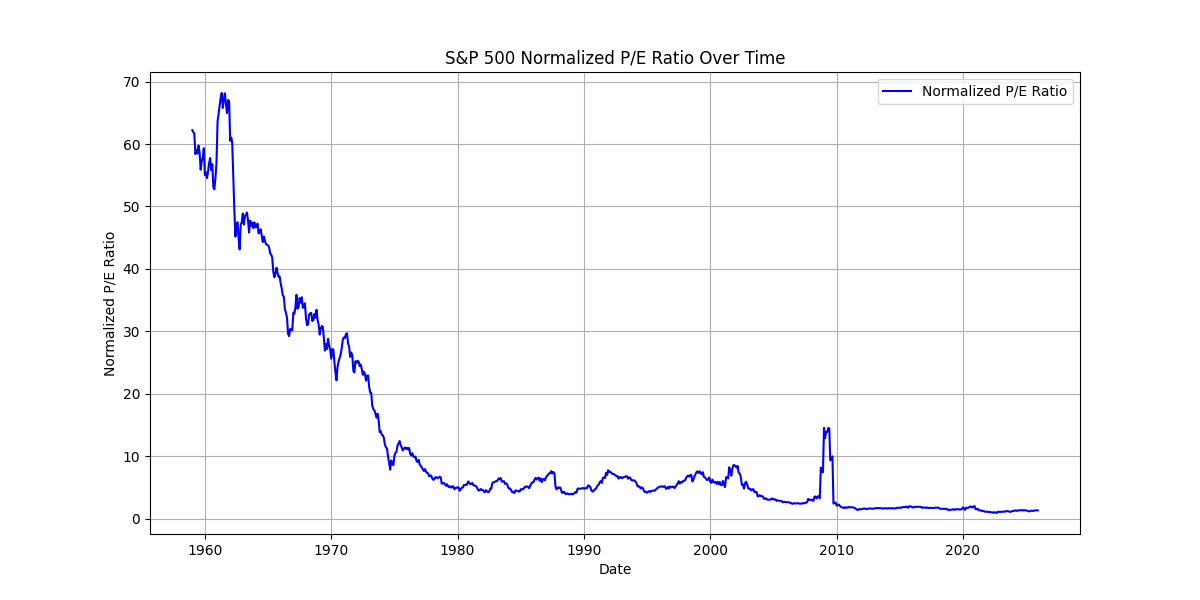
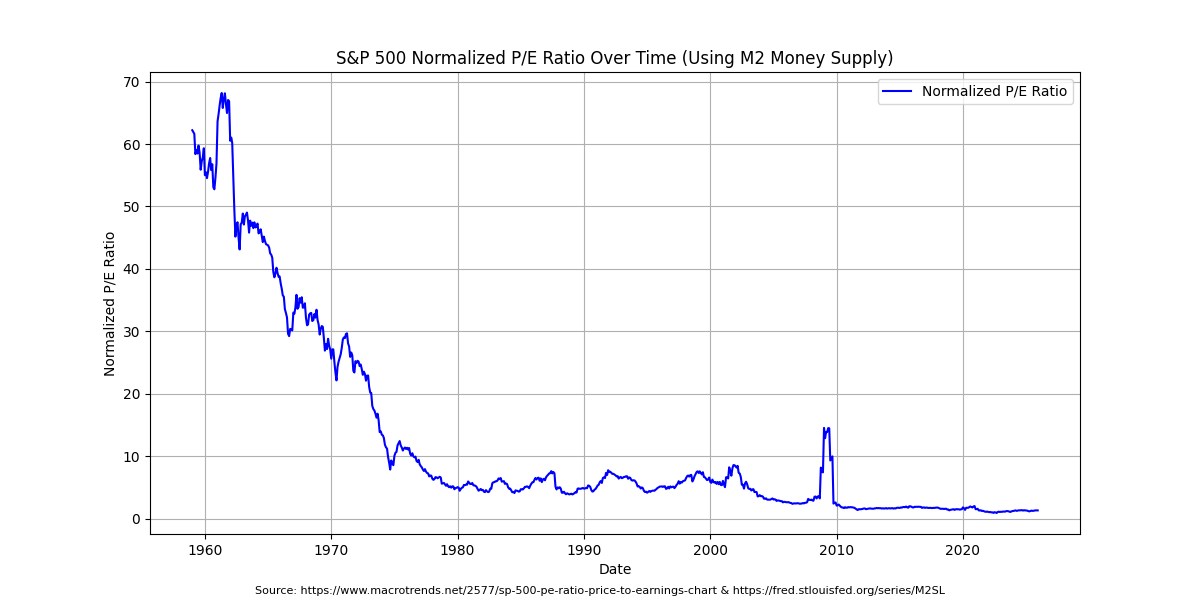
SP 500 PE ratio normalized around 10 year treasure yields

Changed region(s): [[0.2158, 0.96, 0.8017, 0.99], [0.2775, 0.06, 0.74, 0.12]]

diff --git a/src/equities/sp_500_normalized_pe.py b/src/equities/sp_500_normalized_pe.py
@@ -2,9 +2,15 @@ import matplotlib.pyplot as plt
 import pandas as pd
 
 
+# From https://fred.stlouisfed.org/
+m2_data = pd.read_csv('data/M2SL.csv')
+m2_data_source = "https://fred.stlouisfed.org/series/M2SL"
+dgs10_data = pd.read_csv('data/DGS10.csv')
+dgs10_data_source = "https://fred.stlouisfed.org/series/DGS10"
+
 # Macrotrends Data Download
 
-# S&amp;P 500 PE Ratio - 90 Year Historical Chart
+# S&P 500 PE Ratio - 90 Year Historical Chart
 
 # DISCLAIMER AND TERMS OF USE: HISTORICAL DATA IS PROVIDED "AS IS" AND SOLELY
 # FOR INFORMATIONAL PURPOSES - NOT FOR TRADING PURPOSES OR ADVICE.
@@ -13,8 +19,10 @@ import pandas as pd
 
 # ATTRIBUTION: Proper attribution requires clear indication of the data source as "www.macrotrends.net".
 # A "dofollow" backlink to the originating page is also required if the data is displayed on a web page.
+sp500_data = pd.read_csv('data/sp-500-pe-ratio-price-to-earnings-chart.csv')
+sp500_data_source = "https://www.macrotrends.net/2577/sp-500-pe-ratio-price-to-earnings-chart"
 
-def calculate_sp500_normalized_pe(sp500_data, m2_data):
+def calculate_sp500_normalized_pe_m2(sp500_data, m2_data):
     """
     Calculate the normalized P/E ratio for the S&P 500 index.
 
@@ -48,21 +56,64 @@ def calculate_sp500_normalized_pe(sp500_data, m2_data):
     # Plot the normalized P/E ratio over time
     plt.figure(figsize=(12, 6))
     plt.plot(merged_data['date'], merged_data['Normalized_PE'], label='Normalized P/E Ratio', color='blue')
-    plt.title('S&P 500 Normalized P/E Ratio Over Time')
+    plt.title('S&P 500 Normalized P/E Ratio Over Time (Using M2 Money Supply)')
     plt.xlabel('Date')
     plt.ylabel('Normalized P/E Ratio')
+    # Add text box with data sources
+    textstr = f'Source: {sp500_data_source} & {m2_data_source}'
+    plt.gcf().text(0.5, 0.01, textstr, ha='center', fontsize=8)
     plt.legend()
     plt.grid()
     plt.savefig('reports/figures/sp500_normalized_pe.png')
-    plt.show()
 
-    return merged_data[['date', 'value', 'M2SL', 'Normalized_PE']]
+def calculate_sp500_normalized_pe_dgs10(sp500_data, dgs10_data):
+    """
+    Calculate the normalized P/E ratio for the S&P 500 index using the 10-year Treasury yield.
+
+    Parameters:
+    sp500_data (pd.DataFrame): A DataFrame containing the S&P 500 index data with columns 'date' and 'value'.
+    dgs10_data (pd.DataFrame): A DataFrame containing the 10-year Treasury yield data with columns 'DATE' and 'DGS10'.
+
+    Returns:
+    pd.DataFrame: A DataFrame with columns 'date', 'value', 'DGS10', and 'Normalized_PE'.
+    """
+    # Convert date columns to datetime for proper matching
+    sp500_data['date'] = pd.to_datetime(sp500_data['date'])
+    dgs10_data['observation_date'] = pd.to_datetime(dgs10_data['observation_date'])
+
+    # Merge the S&P 500 data with the DGS10 data on the 'date' column.
+    # Drop dates from before 1962 to ensure we have overlapping data.
+    # If DSG10 data is missing for any date in the S&P 500 data, use the last available DGS10 value (forward fill) to ensure we have a complete dataset for the normalized P/E calculation.
+    merged_data = pd.merge(sp500_data, dgs10_data, left_on='date', right_on='observation_date', how='left')
+    merged_data.drop(columns=['observation_date'], inplace=True)
+    merged_data['DGS10'] = merged_data['DGS10'].fillna(method='ffill')  # Forward fill to handle missing DGS10 values
+    # Drop any remaining rows with missing DGS10 values after forward fill
+    merged_data.dropna(subset=['DGS10'], inplace=True)
+
+    # Check if merge was successful
+    if merged_data.empty:
+        print("Warning: No matching dates found between datasets")
+        print(f"SP500 date range: {sp500_data['date'].min()} to {sp500_data['date'].max()}")
+        print(f"DGS10 date range: {dgs10_data['observation_date'].min()} to {dgs10_data['observation_date'].max()}")
+        return pd.DataFrame(columns=['date', 'value', 'DGS10', 'Normalized_PE'])
+
+    # Calculate the normalized P/E ratio
+    merged_data['Normalized_PE'] = merged_data['value'] / merged_data['DGS10']
+    merged_data.to_csv('data/sp500_normalized_pe_dgs10.csv', index=False)
+
+    # Plot the normalized P/E ratio over time
+    plt.figure(figsize=(12, 6))
+    plt.plot(merged_data['date'], merged_data['Normalized_PE'], label='Normalized P/E Ratio (DGS10)', color='orange')
+    plt.title('S&P 500 Normalized P/E Ratio Over Time (Using DGS10)')
+    plt.xlabel('Date')
+    plt.ylabel('Normalized P/E Ratio')
+    # Add text box with data sources
+    textstr = f'Source: {sp500_data_source} & {dgs10_data_source}'
+    plt.gcf().text(0.5, 0.01, textstr, ha='center', fontsize=8)
+    plt.legend()
+    plt.grid()
+    plt.savefig('reports/figures/sp500_normalized_pe_dgs10.png')
 
 if __name__ == "__main__":
-
-    # Example usage
-    sp500_data = pd.read_csv('data/sp-500-pe-ratio-price-to-earnings-chart.csv')
-
-    m2_data = pd.read_csv('data/M2SL.csv')
-
-    result = calculate_sp500_normalized_pe(sp500_data, m2_data)
+    calculate_sp500_normalized_pe_m2(sp500_data, m2_data)
+    calculate_sp500_normalized_pe_dgs10(sp500_data, dgs10_data)
